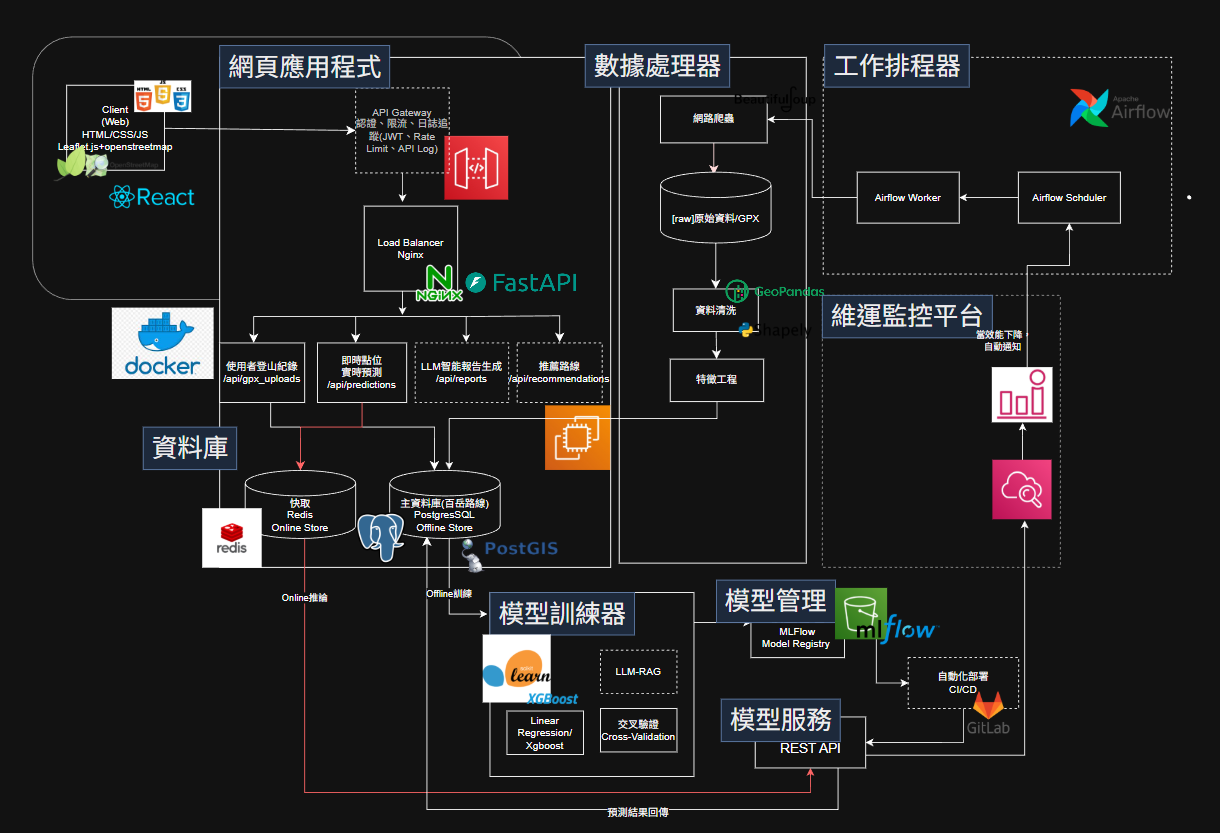
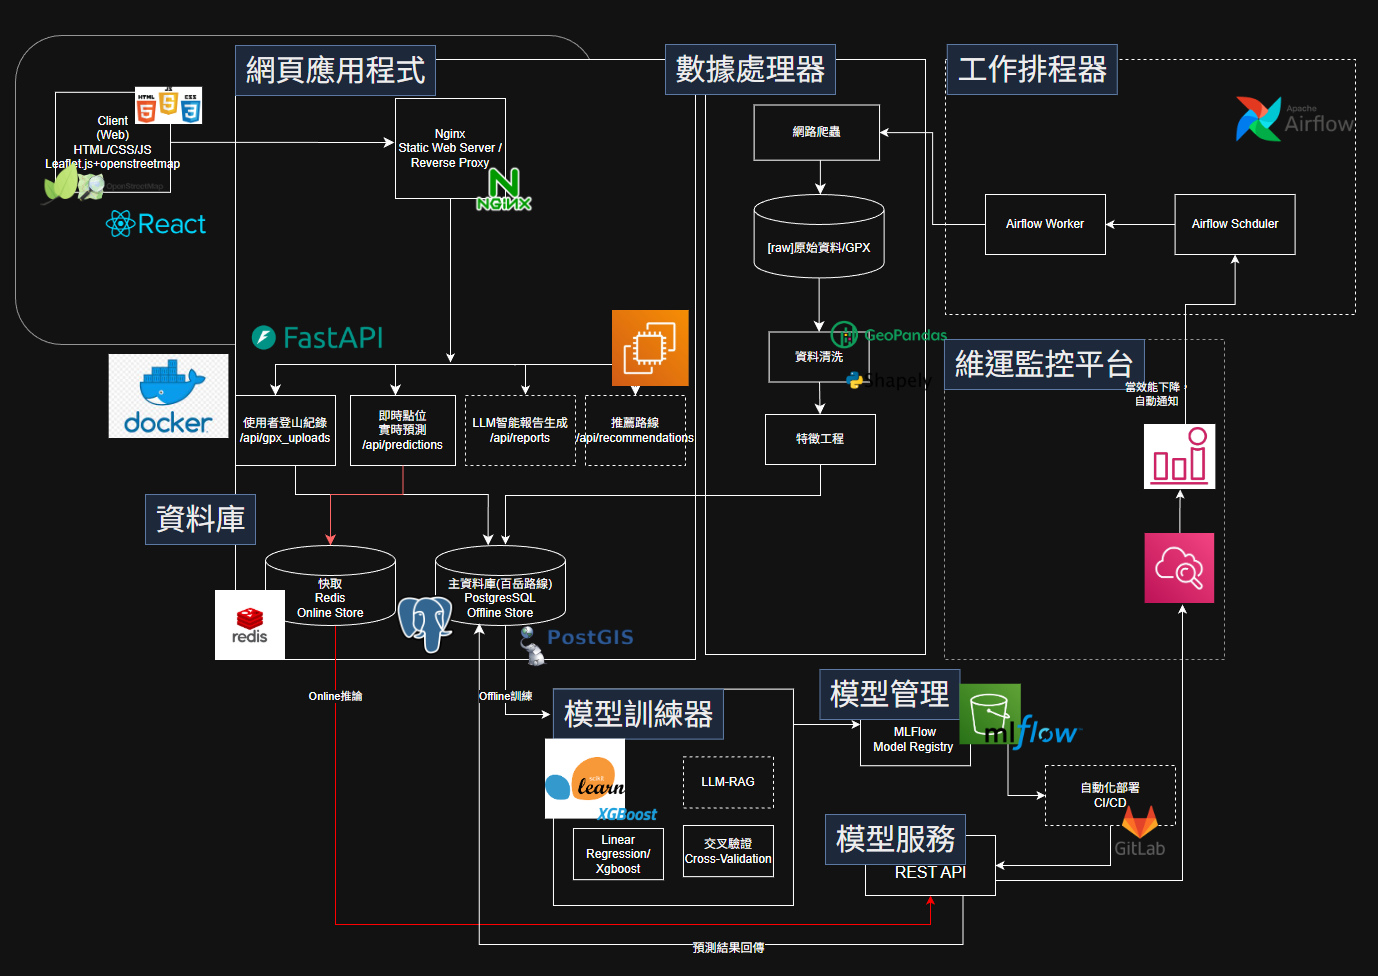
Modify: README.md

diff --git a/README.md b/README.md
@@ -20,7 +20,7 @@
 系統包含以下主要模組：
 
 1. **前端應用 (Frontend Web App)**
-   - 技術：React、Leaflet + OpenStreetMap　+ Nginx
+   - 技術：React、Leaflet + OpenStreetMap + Nginx(Static Web Server / Reverse Proxy)
    - 功能：登山路線顯示、使用者上傳 GPX、查詢預測結果
 
 2. **後端 API (Backend API)**
@@ -164,8 +164,8 @@ curl -X POST http://localhost:5000/api/predictions \
 ---
 
 ## 技術棧 (Tech Stack)
-- **Frontend**: React, Leaflet, Nginx  
-- **Backend**: Flask, FastAPI, SQLAlchemy 
+- **Frontend**: React, Nginx(static file server & reverse proxy)  
+- **Backend**: Flask(current), FastAPI(refactoring target), SQLAlchemy
 - **Database**: PostgreSQL + PostGIS, Redis  
 - **ETL**: GeoPandas, Shapely, BeautifulSoup  
 - **ML Training**: Scikit-learn, XGBoost  
@@ -177,7 +177,7 @@ curl -X POST http://localhost:5000/api/predictions \
 ## 專案進度 (Project Progress)
 🎯核心目標：建立可持續擴充的登山時間預測 AI 平台，目前優先聚焦：Prediction Accuracy、Serving Latency、系統穩定性
 ### 已完成 (✅)
-- ✅ 前端應用 (React + Leaflet + Nginx (static file server & reverse proxy))
+- ✅ 前端應用 (React + Leaflet + Nginx)
 - ✅ 後端 API (Flask + SQLAlchemy)
   - /api/gpx_uploads: 上傳 GPX
   - /api/predictions: 即時路段時間預測
